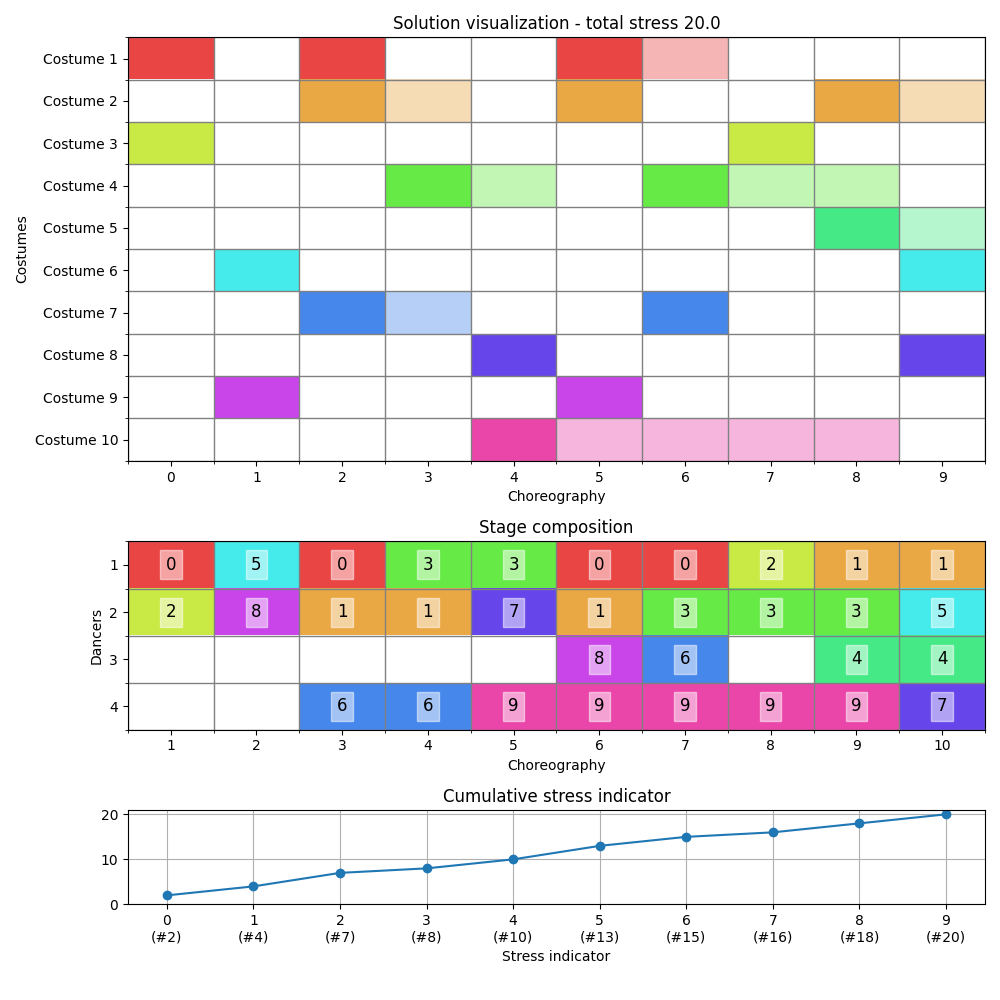
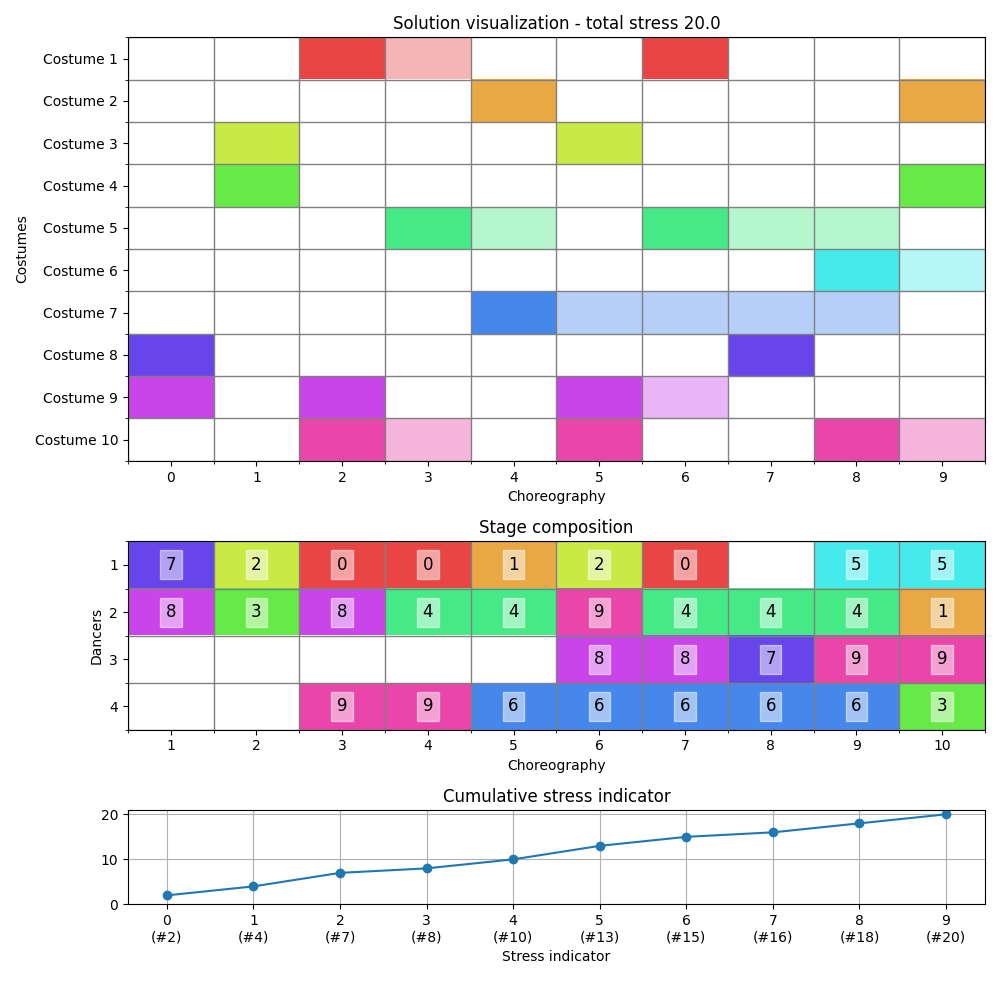
few_changes
marche pas à cause de la mutation mais je sais pas pourquoi

diff --git a/solver_advanced.py b/solver_advanced.py
@@ -1,6 +1,7 @@
 from utils import *
 import random
 from copy import deepcopy
+import random
 
 
 from itertools import permutations
@@ -43,17 +44,19 @@ class Individu():
                 self.matrix[mutation_index][dance_mutation_index] = 1
                 change = True
             i+= 1
+
+
     def return_sol(self):
         sol = [self.matrix[i] for i in self.ordre]
 
-        print(sol)
+        #print(sol)
         return np.array(sol)
     
     def scored(self, instance):
 
 
         score = instance.objective_score(Solution(self.return_sol()))
-        print(score)
+        #print(score)
         return score
 
 def crossover(indiv1, indiv2):
@@ -105,14 +108,16 @@ def solve(instance: Instance) -> Solution:
     Returns:
         Solution: the generated solution
     """
-
-    n_dancers, n_costumes = instance.n_dancers, instance.ncostumes
-    matrice_initiale = instance.costumes_choreographies_matrix.copy()
+    intance_temp = deepcopy(instance)
+    n_dancers, n_costumes = intance_temp.n_dancers, instance.ncostumes
+    matrice_initiale = intance_temp.costumes_choreographies_matrix.copy()
     ordre_initial = [i for i in range(len(matrice_initiale))]
-
+    print(type(matrice_initiale))
 
     pop_size = 10
     gen_max = 10
+    p = 0
+    q = 1
 
     population = generate_pop(pop_size, ordre_initial,matrice_initiale,n_dancers,n_costumes)
     
@@ -122,14 +127,38 @@ def solve(instance: Instance) -> Solution:
     #     sol = np.array(x).T
     #     if instance.objective_score(Solution(sol))<best_score:
     #         best_sol,best_score=sol,instance.objective_score(Solution(sol))
-
+    n = len(population)
     for _ in range(gen_max):
+        Q = []
+        
+        print(n)
+        for j in range(n):
+            r = np.random.uniform(0,1)
 
-        for indiv in population:
-            indiv.mutation()
+            if r < p:
+                s1,s2 = np.random.choice(population,2)
+                sprime = crossover(s1,s2)
+
+            elif r < p+q:
+                sprime = deepcopy(random.sample(population, k=1)[0])
+                sprime.mutation()
+
+            else:
+                sprime = deepcopy(np.random.choice(population))
+
+            Q.append(sprime)
+        
+        Pprime = population+Q
+        population = sorted(Pprime,key=lambda x: x.scored(intance_temp), reverse=True)[0:n]
+
+        
 
 
-    pop_finale_sorted = sorted(population, key=lambda x: x.scored(instance), reverse=True)
 
-    best_sol = pop_finale_sorted[0].return_sol()
+    pop_finale_sorted = sorted(population, key=lambda x: x.scored(intance_temp), reverse=True)
+
+    best_sol = np.array(pop_finale_sorted[0].return_sol()).T
+
+
+    
     return Solution(best_sol)

diff --git a/utils.py b/utils.py
@@ -139,6 +139,7 @@ class Instance:
         """
         Checks if a solution is valid
         """
+        sol = Solution(sol.raw)
         return sol.raw.shape==self.costumes_choreographies_matrix.shape \
                and sum(sol.raw.sum(axis=0)<=self.n_dancers)==self.nchoreographies \
                and self.are_choreographies_respected(sol)
